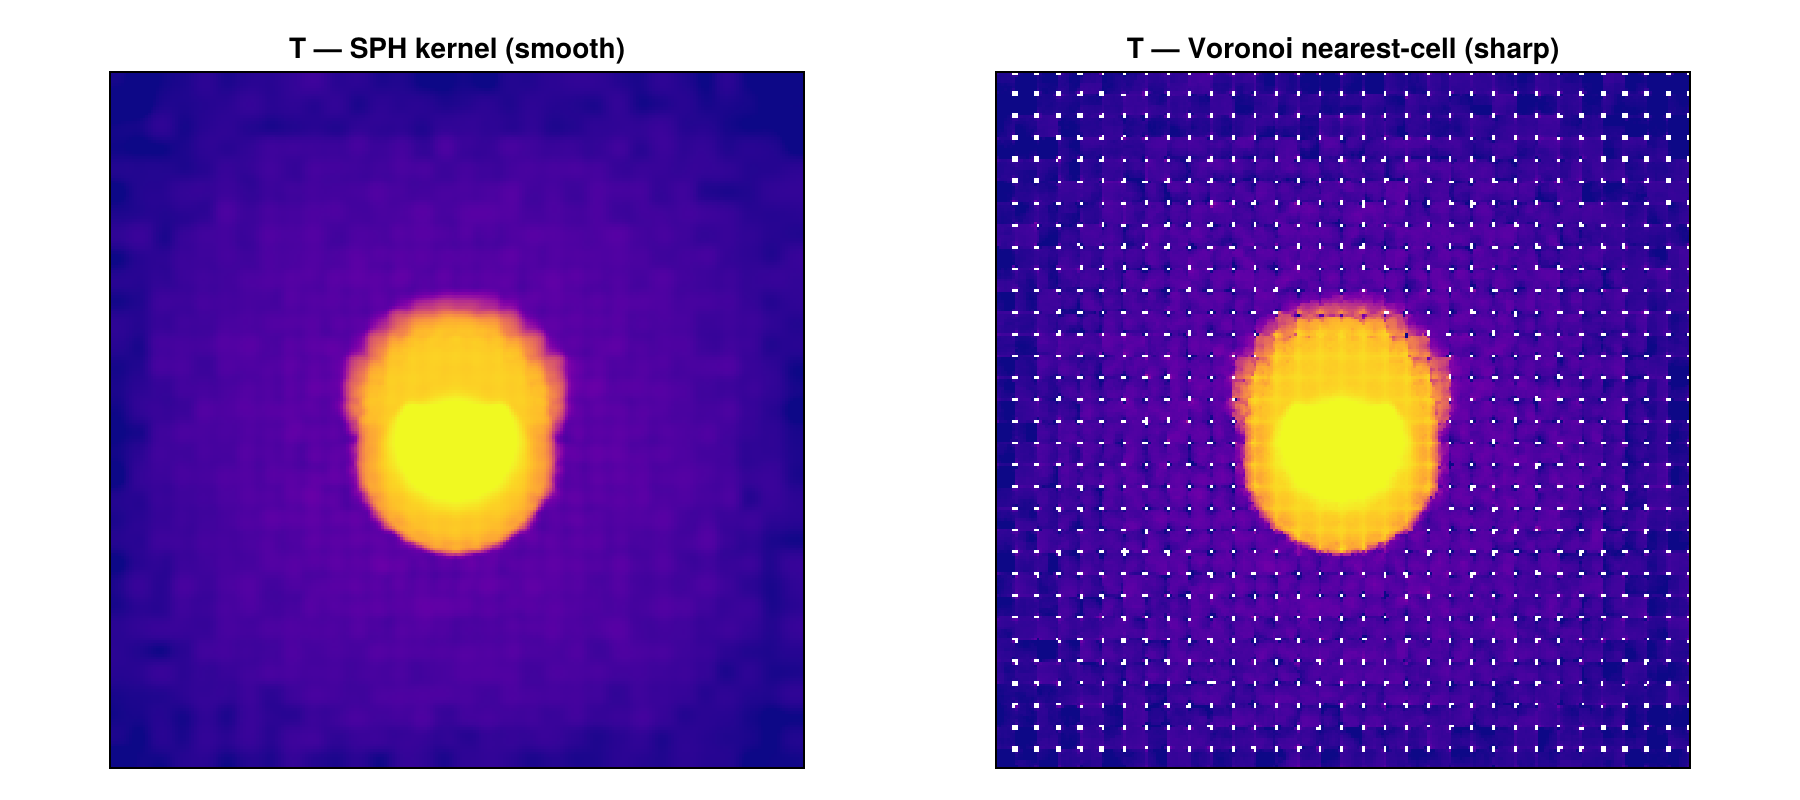
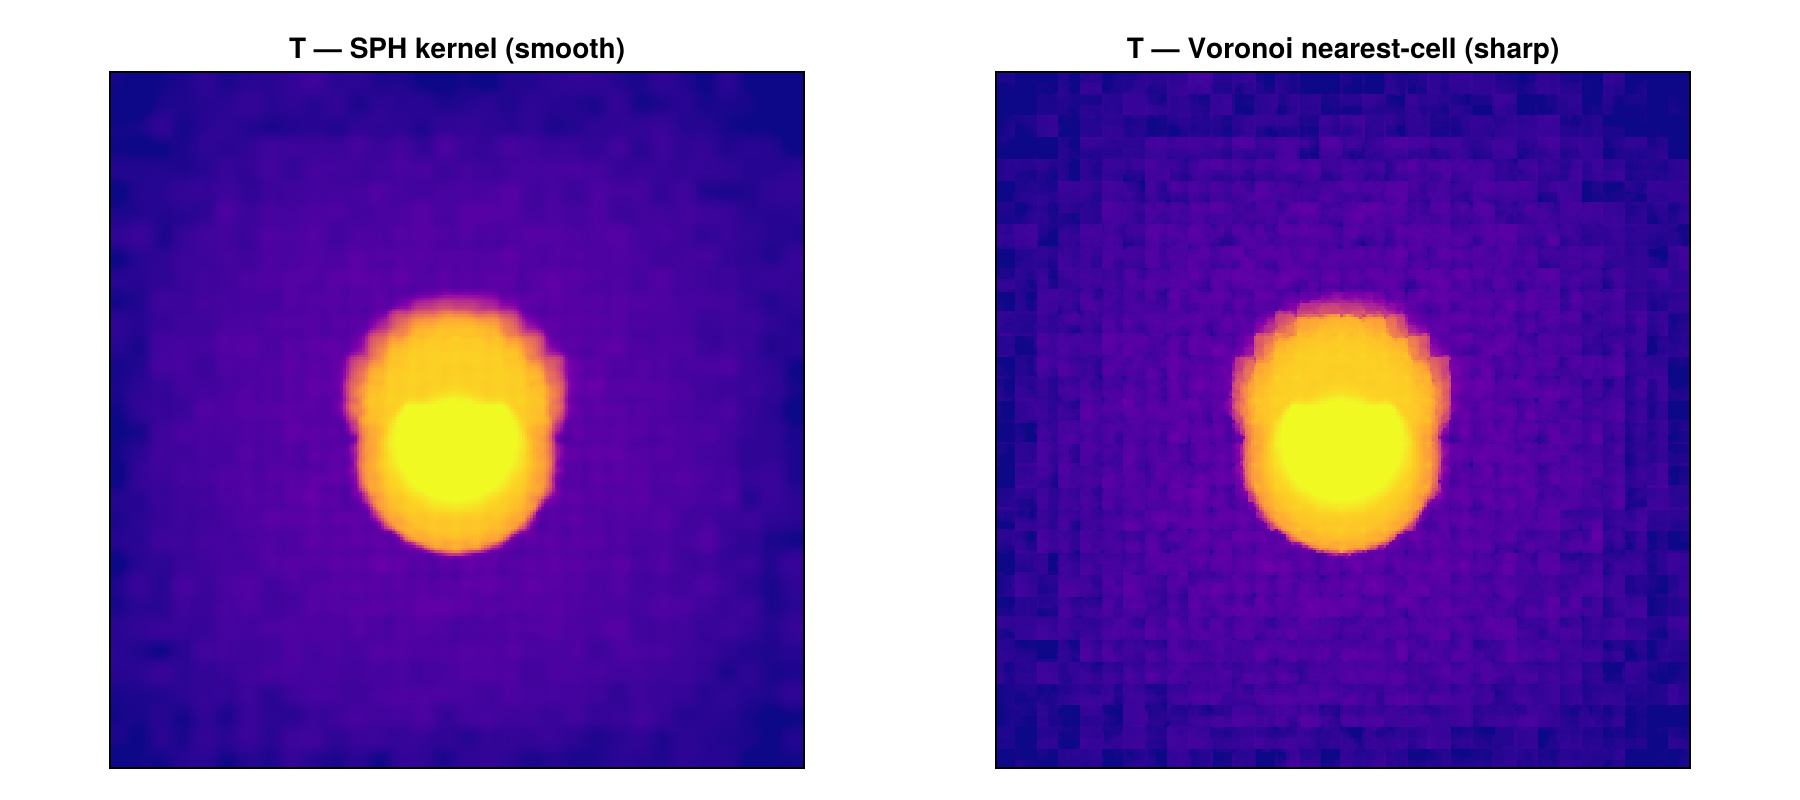
docs(arepo): re-render the Voronoi figure without the corner holes
bc52b6e54 changed the Voronoi reach from the equal-volume sphere radius to the
cube centre-to-corner distance, which removed the lattice of empty pixels. The
published figure still showed the artefact. Re-executed and re-rendered; the
panel now shows the intended contrast -- same structure as the SPH map, sharp
cell-boundary detail instead of kernel smoothing.

diff --git a/docs/src/multicode_examples.md b/docs/src/multicode_examples.md
@@ -33,8 +33,6 @@ base = get(ENV, "MERA_TEST_DATA", "/Volumes/FASTStorage/Simulations/Mera-Tests")
 ```
 
 ```
-[ Info: Precompiling Mera [02f895e8-fdb1-4346-8fe6-c721699f5126] (cache misses: include_dependency fsize change (4), dep missing source (4), mismatched flags (10))
-SYSTEM: caught exception of type :MethodError while trying to print a failed Task notice; giving up
 *__   __ _______ ______   _______
 |  |_|  |       |    _ | |   _   |
 |       |    ___|   | || |  |_|  |
@@ -71,7 +69,7 @@ maximum(getvar(gas, :rho))                           # the usual analysis, uncha
 ```
 
 ```
-[Mera]: 2026-07-30T16:38:01.152
+[Mera]: 2026-07-31T10:34:48.141
 Code: PLUTO
 output: 5  time: 0.5 [code units]
 grid: 64³ uniform Cartesian, level 6, boxlen = 1.0
@@ -135,7 +133,7 @@ length(gsub.data), length(ga.data)                   # sub-region ≪ full snaps
 ```
 
 ```
-[Mera]: 2026-07-30T16:38:15.147
+[Mera]: 2026-07-31T10:35:02.572
 Code: Athena++
 output: 5  time: 0.50111 [code units]
 root grid: 32³ (level 5), MaxLevel 2 ⇒ levels 5:7, boxlen = 2.0
@@ -193,11 +191,12 @@ length(stars.data), msum(stars) > 0
 ```
 
 ```
-[Mera]: 2026-07-30T16:38:42.654
+[Mera]: 2026-07-31T10:35:32.376
 Code: GADGET
 output: 200  time: 0.34483  redshift: 1.9
 boxlen = 64000.0
-particles: 4334546 gas, 4786616 halo/DM, 2333848 disk, 450921 stars, 1149 bndry/BH  (total 11907080)
+particles: 4334546 gas, 4786616 halo/DM, 2333848 disk, 450921 stars, 1149 bndry/BH
+  (total 11907080)
 -------------------------------------------------------
 [Mera]: GADGET particles = 450921, families 4
   (x,y,z,vx,vy,vz,mass,id,family)
@@ -223,7 +222,7 @@ println("metallicity : ", extrema(getvar(gas, :metallicity)))
 ```
 
 ```
-[Mera]: 2026-07-30T16:38:46.685
+[Mera]: 2026-07-31T10:35:37.021
 Code: AREPO
 output: 59  time: 1.0  redshift: 0.0
 boxlen = 205000.0
@@ -249,7 +248,8 @@ println("gas mass [Msol]: ", msum(gas, :Msol))
 
 ```
 median T [K]   : 1.436872560859919e7
-median Z       : 0.001993876649066806
+median Z       :
+0.001993876649066806
 gas mass [Msol]: 4.6930995577059625e13
 ```
 
@@ -292,13 +292,7 @@ hexbin!(a2, log10.(T[ok]), log10.(Bμ[ok]); bins=70, colormap=:viridis)
 figB
 ```
 
-```
-[ Info: Precompiling MeraMakieExt [defab1b5-6ec5-5409-a2f4-69ec619b2a0e] (cache misses: wrong dep version loaded (6), dep missing source (6))
-SYSTEM: caught exception of type :MethodError while trying to print a failed Task notice; giving up
-[ Info: Mera v1.8.0
-```
-
-![](multicode_examples_files/multicode_examples_18_3.png)
+![](multicode_examples_files/multicode_examples_18_1.png)
 
 ### Box-filling maps — a full AREPO volume
 
@@ -321,7 +315,7 @@ fig
 ```
 
 ```
-[Mera]: 2026-07-30T16:39:20.698
+[Mera]: 2026-07-31T10:36:01.912
 Code: AREPO
 output: 150  time: 1.5381  redshift: 0.0
 boxlen = 40000.0
@@ -329,16 +323,17 @@ particles: 12865831 gas, 13368238 halo/DM, 295531 stars  (total 26529600)
 -------------------------------------------------------
 [Mera]: GADGET particles = 12865831, families 0
   (x,y,z,vx,vy,vz,mass,id,family,rho,u,gpot,volume)
-[Mera]: 2026-07-30T16:39:25.045
+[Mera]: 2026-07-31T10:36:06.590
 center: [0.5, 0.5, 0.5] ==> [19.999 [Mpc] :: 19.999 [Mpc] :: 19.999 [Mpc]]
 domain:
 xmin::xmax: 0.0 :: 1.0  	==> 0.0 [Mpc] :: 39.999 [Mpc]
-ymin::ymax: 0.0 :: 1.0  	==> 0.0 [Mpc] :: 39.999 [Mpc]
+ymin::ymax: 0.0 :: 1.0
+==> 0.0 [Mpc] :: 39.999 [Mpc]
 zmin::zmax: 0.0 :: 1.0  	==> 0.0 [Mpc] :: 39.999 [Mpc]
 Effective resolution: 256^2
 Pixel size: 156.246 [kpc]
 Simulation min.: 19.999 [Mpc]
-[Mera]: 2026-07-30T16:40:14.055
+[Mera]: 2026-07-31T10:37:06.177
 center: [0.5, 0.5, 0.5] ==> [19.999 [Mpc] :: 19.999 [Mpc] :: 19.999 [Mpc]]
 domain:
 xmin::xmax: 0.0 :: 1.0  	==> 0.0 [Mpc] :: 39.999 [Mpc]
@@ -420,7 +415,7 @@ end
 ```
 
 ```
-[Mera]: 2026-07-30T16:42:44.810
+[Mera]: 2026-07-31T10:40:18.786
 Code: AREPO
 output: 24  time: 0.20016  redshift: 3.996
 boxlen = 200000.0
@@ -499,9 +494,9 @@ z_form : median
 2.02   max 13.54
 age    : median 10.54 Gyr   oldest 13.49 Gyr
 z_form == 1/a - 1 : true
-age decreases with a_form :
-true
-stellar mass formed in the last 1 Gyr: 2.431e10 Msol
+age decreases with a_form : true
+stellar mass formed in the last 1 Gyr: 2.431e10
+ Msol
 ```
 
 
